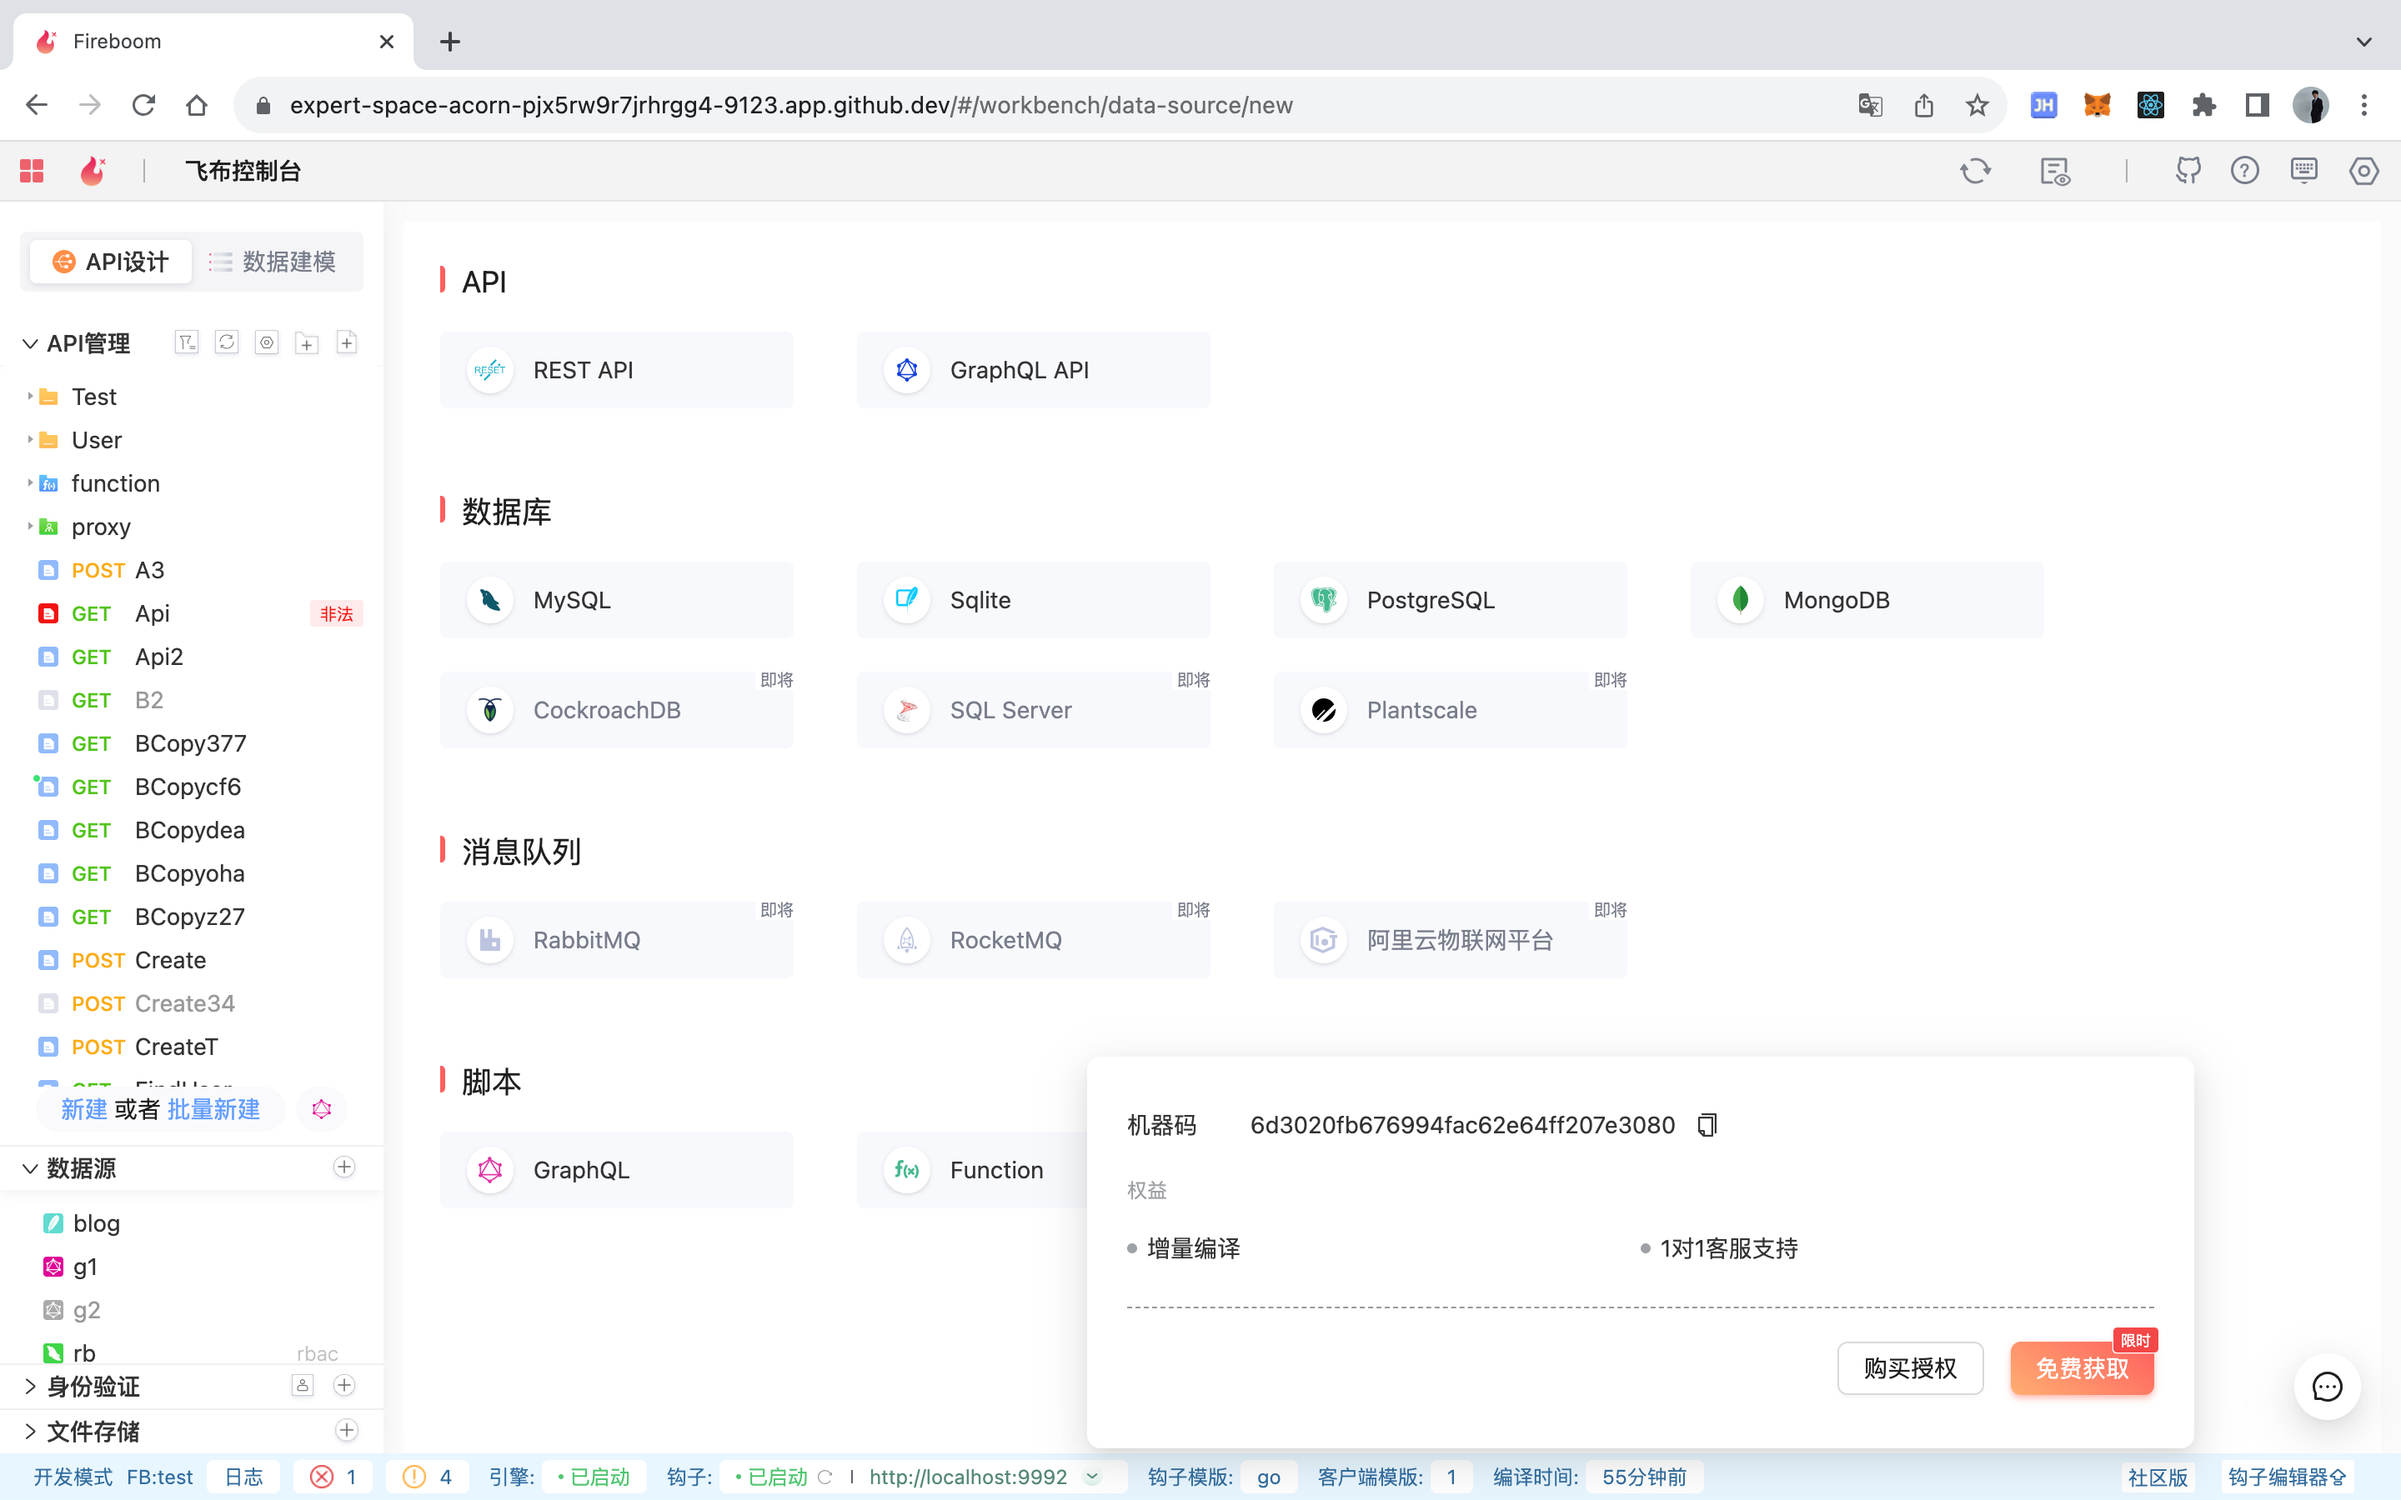
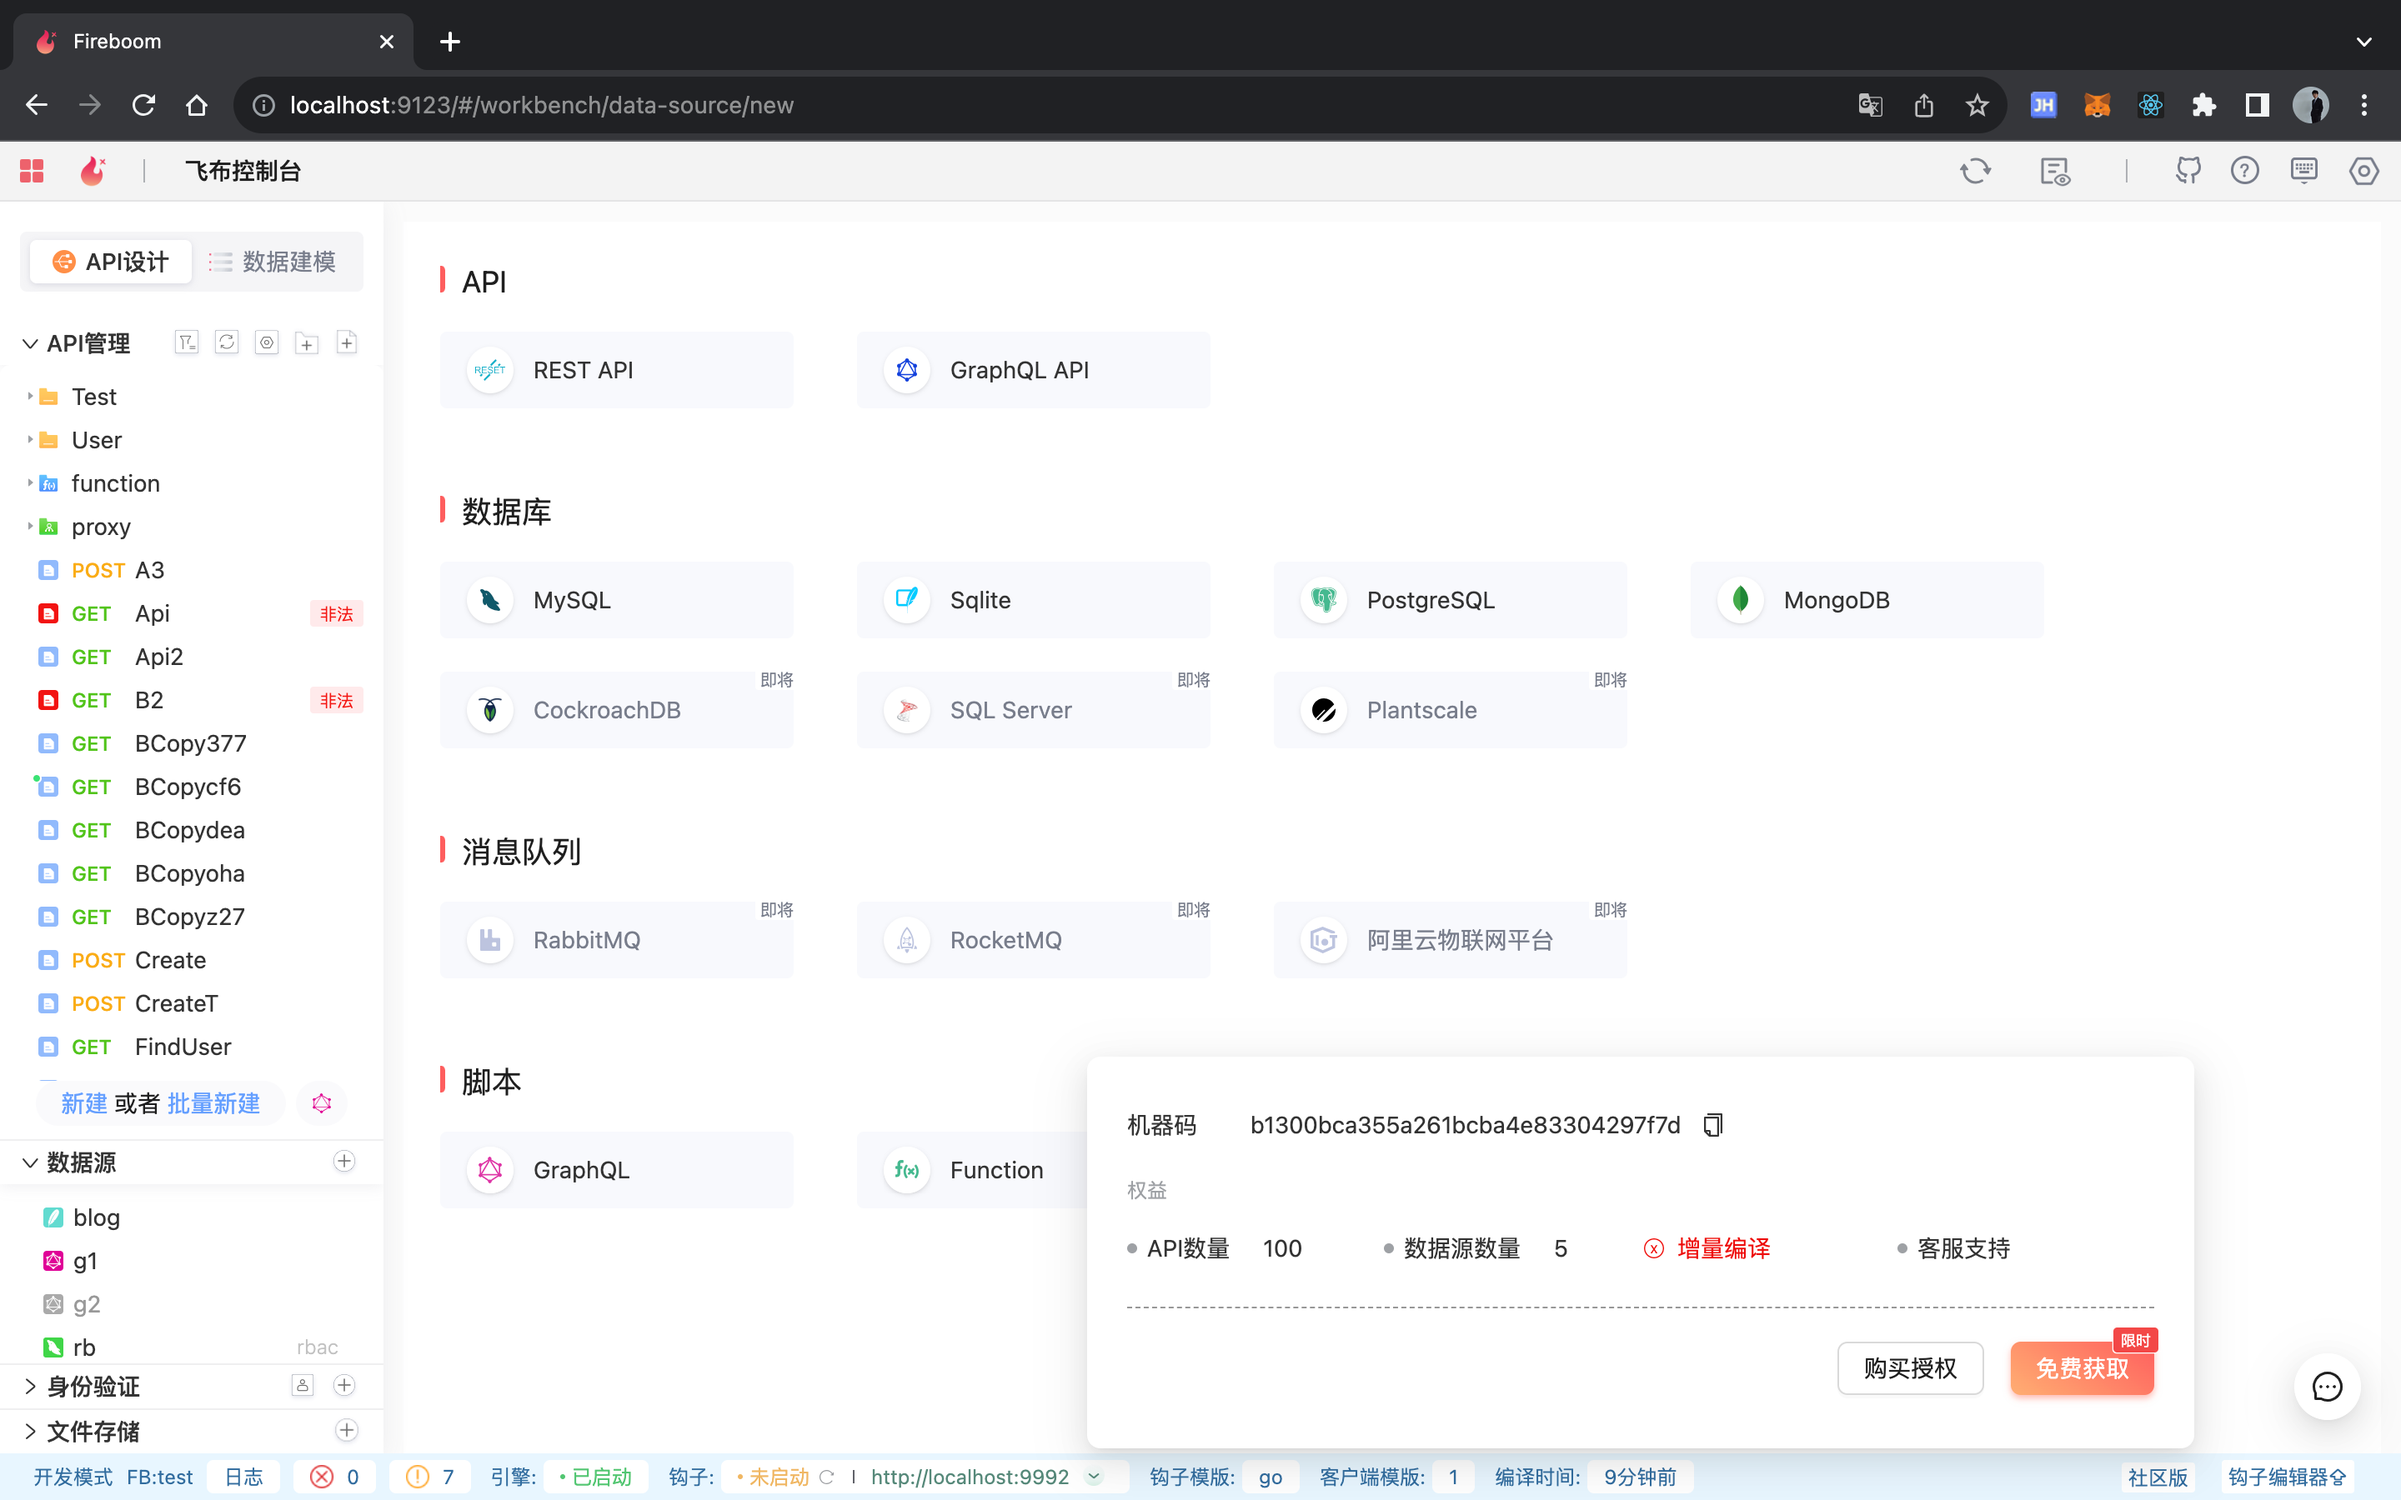
GITBOOK-9: change request with no subject merged in GitBook

diff --git a/geng-xin-ri-zhi/v2.0-geng-xin-shuo-ming.md b/geng-xin-ri-zhi/v2.0-geng-xin-shuo-ming.md
@@ -16,7 +16,9 @@ Fireboom2.0是一个值得骄傲的作品！其中最亮眼的特性是：<mark 
 
 1.0版本存在性能问题，在表数量接近300时，尝尝内省失败，且构建的“超图”冗余过多，导致`fireboom.config.json`动辄十几个G，不仅编译较慢，而且运行时很消耗内存。
 
-重构引擎，2.0的生成文件缩小 <mark style="color:purple;">10 倍</mark> ，运行内存缩小 <mark style="color:orange;">5 倍</mark>，静态编译速度提升 <mark style="color:green;">8 倍</mark>，且支持了OPERATION增量编译，实现了无感编译！
+重构引擎，2.0的生成文件缩小 <mark style="color:purple;">10 倍</mark> ，运行内存缩小 <mark style="color:orange;">10 倍</mark>，静态编译速度提升 <mark style="color:green;">5 倍</mark>。
+
+这还不够，进一步支持了OPERATION增量编译，实现了无感编译！
 
 **体验优化，流畅开发：**
 
@@ -542,26 +544,48 @@ Fireboom作为一个还在萌芽中的技术型初创团队，一方面追求心
 
 从2.0开始，Fireboom将开始探索商业化。但不用担心，我们将为您提供最慷慨的免费特性，在不影响您正常项目的情况下，提供增值服务。
 
-因此，上述特性全部免费，除了1项增值服务：
+### 免费申领授权
 
-* [#zeng-liang-bian-yi](v2.0-geng-xin-shuo-ming.md#zeng-liang-bian-yi "mention")
+默认情况下，2.0版本提供如下特性：
+
+* API数量：100
+* 数据源数量：5
+* 客户支持：社群支持
 
 <figure><img src="../.gitbook/assets/image (1).png" alt=""><figcaption></figcaption></figure>
 
-获取商业授权，有两种方式：
+但，别担心！当项目需求超出默认限制后，可随时**免费**申请扩容。**申请后，无限期生效！**
 
-* 购买授权：当前售价99元/设备，根据上线的增值服务，将持续调整价格
-* 免费获取：当前仅内测用户可参与该活动
+详情填写[申请表单](https://bar9vnf09af.feishu.cn/share/base/form/shrcnZnKpk9Oi7qfcSXaFE7nM8g)\~
 
-未来将持续推出更多增值服务，进一步提升开发体验！
+{% hint style="info" %}
+社区版 只允许个人开发者将其用于个人项目，而不能用于企业或商业用途。
+{% endhint %}
+
+### 付费购买授权
+
+除了免费申领授权，还有高阶特性，需要付费才能使用。
+
+当前，仅上线 1项增值服务：
+
+* [#zeng-liang-bian-yi](v2.0-geng-xin-shuo-ming.md#zeng-liang-bian-yi "mention")
+
+该特性当前售价 **99元/设备.年**，后续将根据上线的增值服务，持续调整价格。详情咨询微信：luxuncode&#x20;
+
+未来将持续推出更多增值服务，进一步提升开发体验！例如：
+
+* 实时协作
+* 日志监控
+* 集群部署
+* ...
 
 <mark style="color:red;">如果您觉得某些政策不合理，请随时联系我们。我们将会慎重考虑您的建议！</mark>
 
 ## 结语
 
-结束之际，最想感谢的是Fireboom内测群 **228名** 种子用户。是你们的使用、反馈、建议让我们走到今天！
+结束之际，最想感谢的是Fireboom内测群所有种子用户。是你们的使用、反馈、建议让我们走到今天！
 
-**为此，群内所有用户都将**<mark style="color:blue;">**免费**</mark>**获得1年的**<mark style="color:blue;">**增量编译特权**</mark>**！**详情见 [文档](https://bar9vnf09af.feishu.cn/docx/Wz5TdGDseocuIWxPDRpcWY35nnb?from=from\_copylink)！
+**为此，群内所有用户都将**<mark style="color:red;">**免费**</mark>**获得1年的**<mark style="color:purple;">**增量编译特权**</mark>**！**前往[申请->](https://bar9vnf09af.feishu.cn/share/base/form/shrcnNDXxJKs7BUTIY4gEFCOvt6)
 
 希望接下来的日子，仍有您的陪伴！
 
